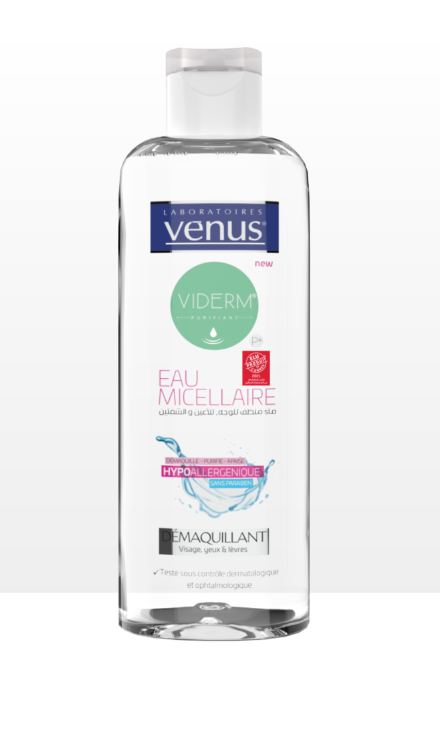
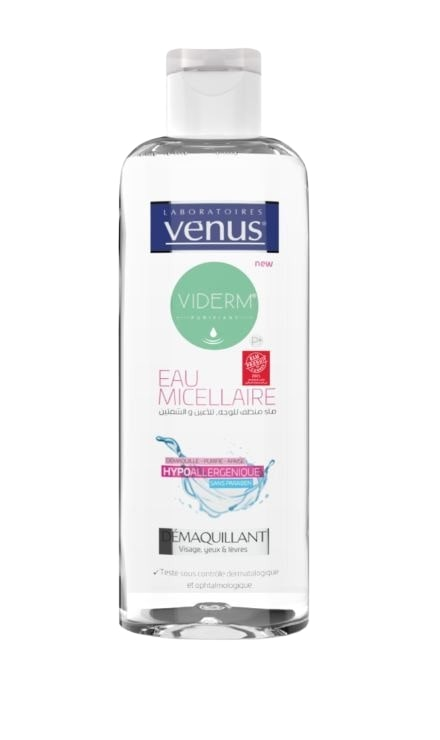
Edit products' imgs

diff --git a/src/lib/stores/products_store.ts b/src/lib/stores/products_store.ts
@@ -7,12 +7,12 @@ import photo5 from '$lib/assets/Sample Imgs/Products Imgs/photo_5.jpg';
 import photo6 from '$lib/assets/Sample Imgs/Products Imgs/photo_6.jpg';
 import photo7 from '$lib/assets/Sample Imgs/Products Imgs/photo_7.jpg';
 import photo8 from '$lib/assets/Sample Imgs/Products Imgs/photo_8.jpg';
-import photo9 from '$lib/assets/Sample Imgs/Products Imgs/photo_9.png';
+import photo9 from '$lib/assets/Sample Imgs/Products Imgs/photo_9.jpg';
 import photo10 from '$lib/assets/Sample Imgs/Products Imgs/photo_10.jpg';
 import photo11 from '$lib/assets/Sample Imgs/Products Imgs/photo_11.jpg';
 import photo12 from '$lib/assets/Sample Imgs/Products Imgs/photo_12.jpg';
 import photo13 from '$lib/assets/Sample Imgs/Products Imgs/photo_13.jpeg';
-import photo14 from '$lib/assets/Sample Imgs/Products Imgs/photo_14.png';
+import photo14 from '$lib/assets/Sample Imgs/Products Imgs/photo_14.jpg';
 import photo15 from '$lib/assets/Sample Imgs/Products Imgs/photo_15.jpg';
 import photo16 from '$lib/assets/Sample Imgs/Products Imgs/photo_16.jpg';
 import photo17 from '$lib/assets/Sample Imgs/Products Imgs/photo_17.jpg';
